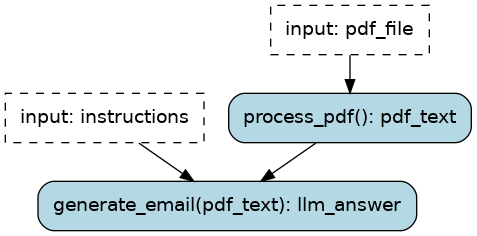
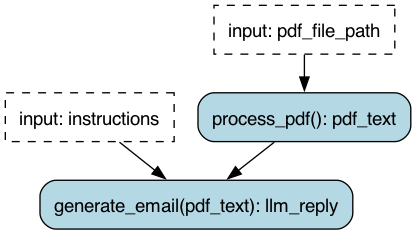
Updates:
- removes instructor to simplify dependencies
- updates apps

diff --git a/email_assistant/v2/assistant.py b/email_assistant/v2/assistant.py
@@ -1,5 +1,5 @@
 import openai
-import instructor
+# import instructor
 
 from burr.core import action, ApplicationBuilder, Application, State
 from pydantic import BaseModel, Field
@@ -7,13 +7,15 @@ import pymupdf
 
 
 class LinkedInProfile(BaseModel):
-    """Extract metadata from a PDF export of a LinkedIn profile."""
+    """Extract user data from a PDF export of a LinkedIn profile."""
     name: str = Field(description="First name")
     latest_role_title: str = Field(description="Job title of the most recent experience")
     top_skills: list[str] = Field(description="Top job-related skills")
     achievements: list[str] = Field(
         description="Elements from the person's work experience that demonstrate skills and constitute significant achievements"
     )
+    # add more here, e.g.
+    # specializations: list[str] = Field(description="Field specializations that are clear from their work history. E.g. 'Machine Learning', 'Data Science', etc.")
 
 
 # note that we expect the email template fields to match the LinkedInProfile fields
@@ -40,28 +42,39 @@ def process_pdf(state: State, pdf_file_path: str) -> State:
     return state.update(pdf_text=text)
 
 
-@action(reads=["pdf_text"], writes=["metadata", "email"])
-def generate_email(state: State, response_model: type[BaseModel], response_template: str) -> State:
+@action(reads=["pdf_text"], writes=["user_data"])
+def extract_user_data(
+    state: State,
+    response_model: type[BaseModel],
+) -> State:
     text = state["pdf_text"]
-
-    client = instructor.from_openai(openai.OpenAI())
-    response = client.create(
+    system_prompt = "Extract the relevant data from the content of this PDF file."
+    # client = instructor.from_openai(openai.OpenAI())
+    client = openai.OpenAI()
+    response = client.beta.chat.completions.parse(
         model="gpt-4o-mini",
         messages=[
-            {"role": "system", "content": "Extract the relevant metadata from the content of this PDF file."},
+            {"role": "system", "content": system_prompt},
             {"role": "user", "content": text},
         ],
-        response_model=response_model,
+        response_format=response_model,
     )
+    li_profile: LinkedInProfile = response.choices[0].message.parsed
+    return state.update(user_data=li_profile)
 
-    # `response` is an instance of `response_model`
+
+@action(reads=["user_data"], writes=["email"])
+def generate_email(state: State, response_template: str) -> State:
+    li_profile: LinkedInProfile = state["user_data"]
+
+    # `li_profile` is an instance of `response_model`
     email = response_template.format(
-        name=response.name,
-        latest_role_title=response.latest_role_title,
-        top_skills="; ".join(response.top_skills),
+        name=li_profile.name,
+        latest_role_title=li_profile.latest_role_title,
+        top_skills="; ".join(li_profile.top_skills),
     )
 
-    return state.update(metadata=response, email=email)
+    return state.update(user_data=li_profile, email=email)
 
 
 def build_assistant(app_id: str) -> Application:
@@ -70,12 +83,15 @@ def build_assistant(app_id: str) -> Application:
         .with_actions(
             process_pdf,
             # We bind the response model and email template instead of hardcoding them
-            generate_email.bind(
+            extract_user_data.bind(
                 response_model=LinkedInProfile,
+            ),
+            generate_email.bind(
                 response_template=EMAIL_TEMPLATE,
             ),
         )
-        .with_transitions(("process_pdf", "generate_email"))
+        .with_transitions(("process_pdf", "extract_user_data"),
+                          ("extract_user_data", "generate_email"))
         .with_entrypoint("process_pdf")
         .with_identifiers(app_id=app_id)
         .with_tracker(project="email-assistant-v2", use_otel_tracing=True)

diff --git a/email_assistant/v2/app.py b/email_assistant/v2/app.py
@@ -23,13 +23,13 @@ def run_assistant(pdf_file: str) -> tuple[str | None, dict]:
             inputs={"pdf_file_path": pdf_file}
         )
         reply = state["email"]
-        metadata = state["metadata"].model_dump_json()
+        user_data = state["user_data"].model_dump_json()
     else:
         gr.Info("Please upload a PDF file to continue.")
         reply = None
-        metadata = {}
+        user_data = {}
 
-    return reply, metadata
+    return reply, user_data
 
 
 def build_ui() -> gr.Blocks:
@@ -42,14 +42,17 @@ def build_ui() -> gr.Blocks:
             with gr.Column():
                 text_output = gr.Textbox(label="Email", max_lines=100, show_copy_button=True)
             with gr.Column():
-                metadata_output = gr.JSON(label="Extracted metadata", max_height=800)
+                user_data_output = gr.JSON(label="Extracted user_data", height=400)
 
-        query_button.click(run_assistant, [pdf_input], [text_output, metadata_output])
+        query_button.click(run_assistant, [pdf_input], [text_output, user_data_output])
 
     return ui
 
 
 if __name__ == "__main__":
+    import os
+    os.environ['GRADIO_ANALYTICS_ENABLED'] = 'False'
+
     from opentelemetry.instrumentation.openai import OpenAIInstrumentor
     OpenAIInstrumentor().instrument()
 

diff --git a/apps/5-app-convo-burr.py b/apps/5-app-convo-burr.py
@@ -1,8 +1,3 @@
-import copy
-
-from IPython.display import Image, display
-from IPython.core.display import HTML
-import openai
 import os
 import gradio as gr
 from llama_index.core import VectorStoreIndex, Document
@@ -10,9 +5,6 @@ from llama_index.llms.ollama import Ollama
 from llama_index.llms.openai import OpenAI
 from llama_index.embeddings.huggingface import HuggingFaceEmbedding
 import pymupdf  # PyMuPDF
-import sqlite3
-from datetime import datetime
-import threading
 import uuid
 
 from burr.core import ApplicationBuilder, State, default, graph, when
@@ -92,7 +84,7 @@ def build_application(base_graph, conversation_id):
     from opentelemetry.instrumentation.ollama import OllamaInstrumentor
     OllamaInstrumentor().instrument()
 
-    tracker = LocalTrackingClient(project="ai-for-swes")
+    tracker = LocalTrackingClient(project="ai-for-swes-5-app-convo-burr")
     app = (
         ApplicationBuilder()
         .with_graph(base_graph)

diff --git a/email_assistant/v3/assistant.py b/email_assistant/v3/assistant.py
@@ -15,6 +15,8 @@ class LinkedInProfile(BaseModel):
     achievements: list[str] = Field(
         description="Elements from the person's work experience that demonstrate skills and constitute significant achievements"
     )
+    # add more here, e.g.
+    # specializations: list[str] = Field(description="Field specializations that are clear from their work history. E.g. 'Machine Learning', 'Data Science', etc.")
 
 
 @action(reads=[], writes=["pdf_text"])

diff --git a/email_assistant/v1/app.py b/email_assistant/v1/app.py
@@ -46,6 +46,9 @@ def build_ui() -> gr.Blocks:
 
 
 if __name__ == "__main__":
+    import os
+    os.environ['GRADIO_ANALYTICS_ENABLED'] = 'False'
+
     from opentelemetry.instrumentation.openai import OpenAIInstrumentor
     OpenAIInstrumentor().instrument()
 

diff --git a/email_assistant/v3/app.py b/email_assistant/v3/app.py
@@ -124,5 +124,8 @@ def build_ui() -> gr.Blocks:
 
 
 if __name__ == "__main__":
+    import os
+    os.environ['GRADIO_ANALYTICS_ENABLED'] = 'False'
+
     ui = build_ui()
     ui.launch(server_port=8111)
